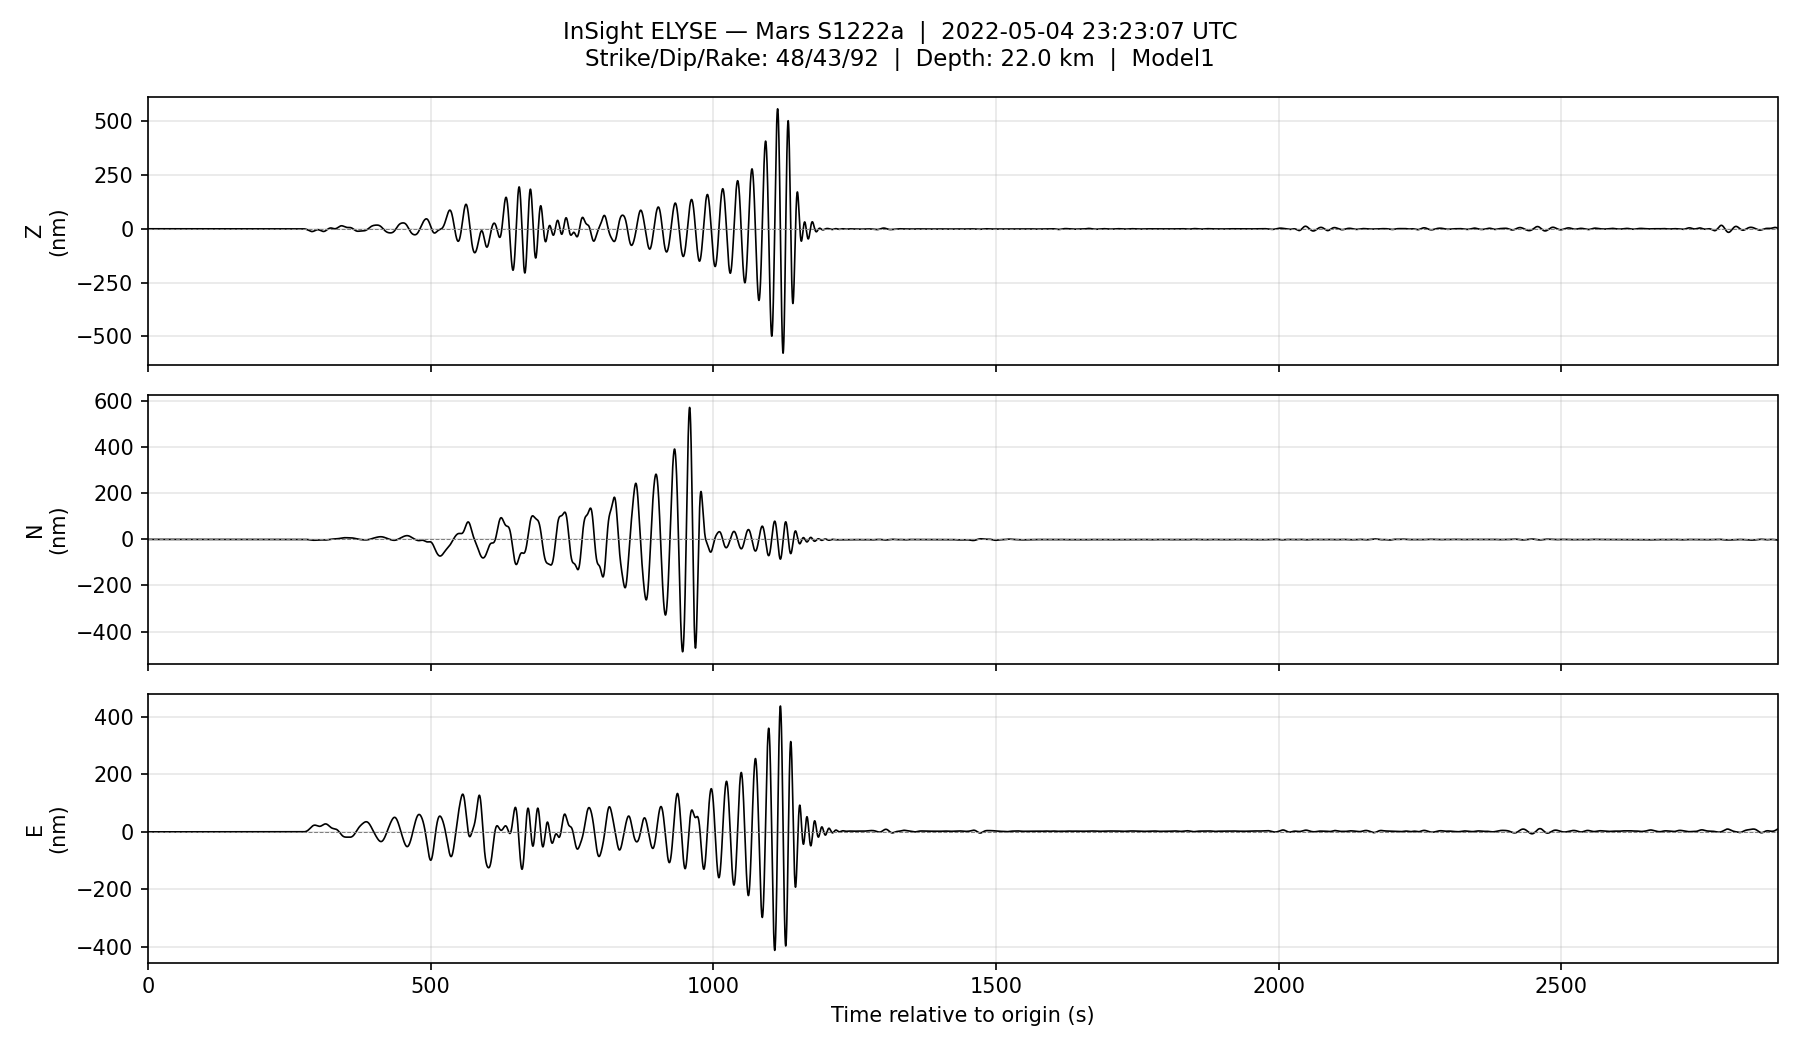
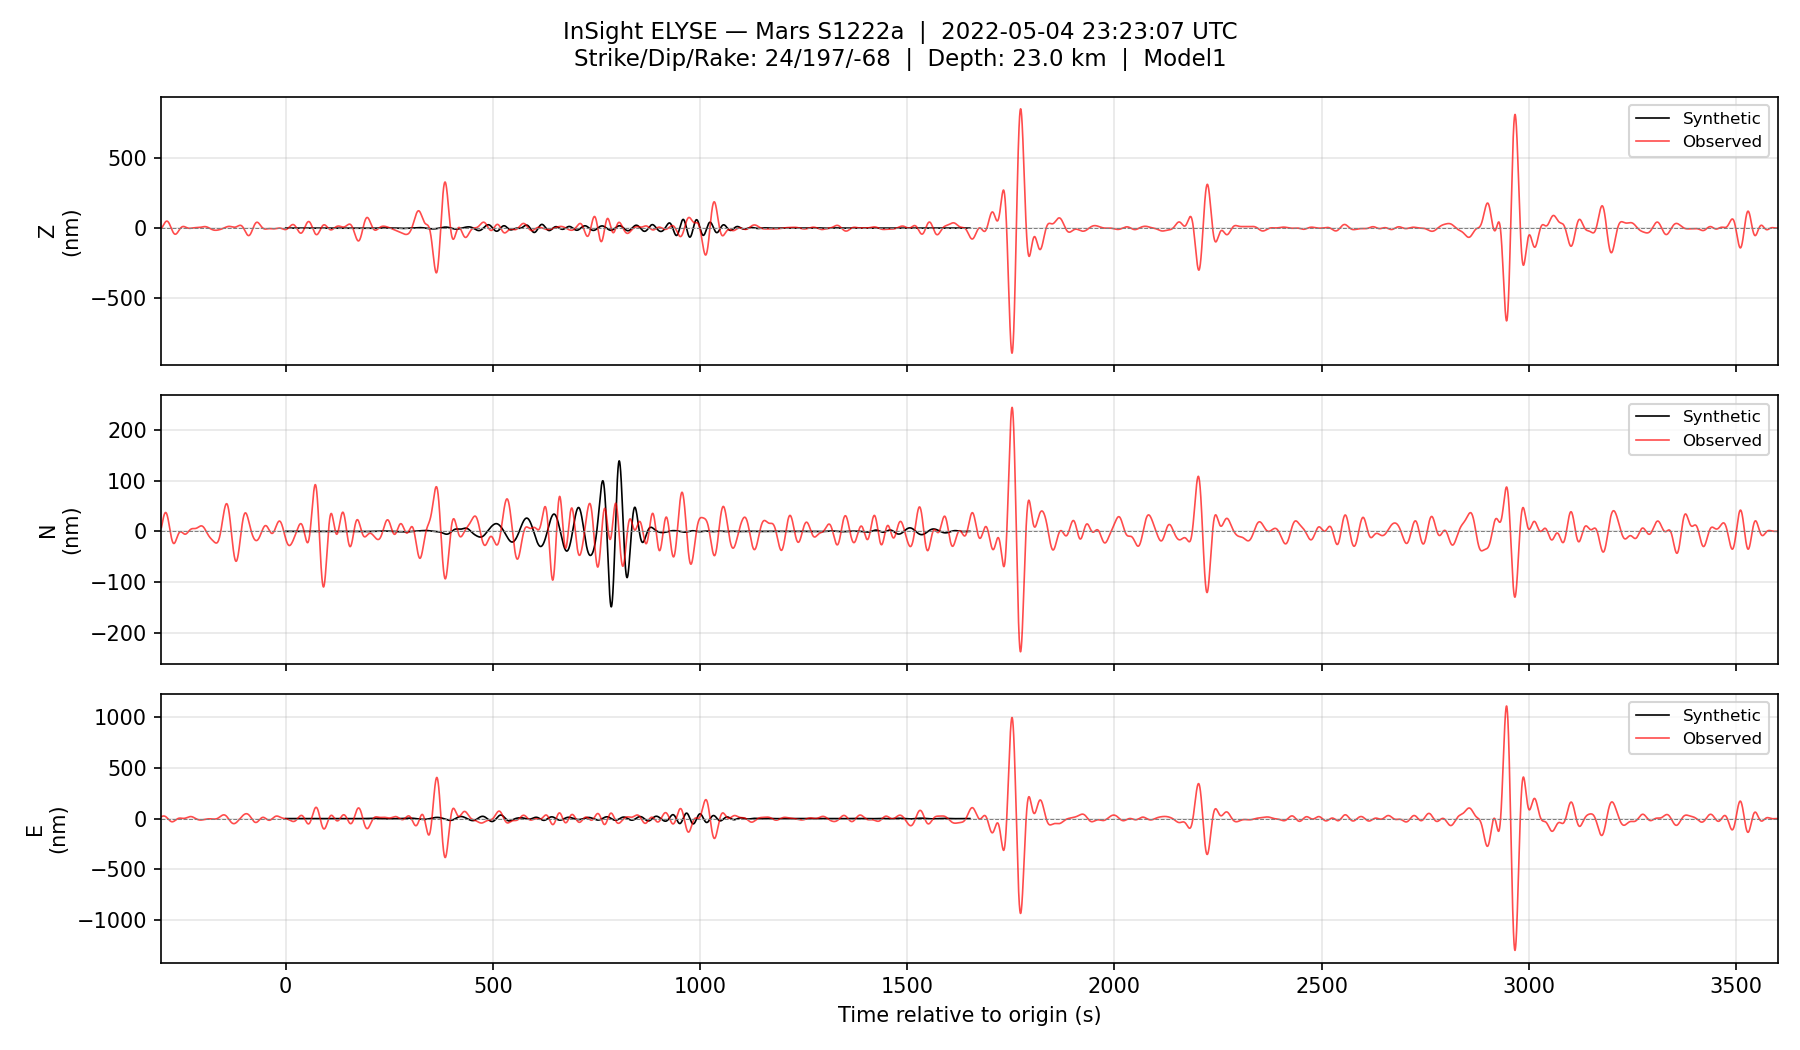
improved instaseis script

diff --git a/instaseis/main.py b/instaseis/main.py
@@ -7,11 +7,11 @@ from obspy.signal.filter import bandpass
 from real_data import load_real_zne
 
 _here = os.path.dirname(os.path.abspath(__file__))
-db = instaseis.open_db(os.path.join(_here, '..', 'axisem', 'SOLVER', 'mars'))
+db = instaseis.open_db(os.path.join(_here, '..', 'axisem', 'SOLVER', 'model_155_30'))
 print(db)
 
-FREQMIN = 0.1
-FREQMAX = 1.0
+FREQMIN = 0.01   # period 100s
+FREQMAX = 0.0333 # period 30s (mesh's dominant period)
 CORNERS = 4
 CHANNELS = ('BHU', 'BHV', 'BHW')
 
@@ -19,12 +19,16 @@ origin = UTCDateTime('2022-05-04 23:23:07')
 
 stla = 4.502
 stlo = 135.62
-evlo = 171.9
-evla = -3.0
-evdp = 22.0
+evlo = 165.86
+evla = 3.39
+evdp = 23.0
 evdp_m = evdp*1000.
+dip = 197
+strike = 24
+rake = -68
+M0 = 1e15
 
-source = instaseis.Source.from_strike_dip_rake(latitude=evla,longitude=evlo,depth_in_m=evdp_m,strike=48,dip=43,rake=92,M0=5e15)
+source = instaseis.Source.from_strike_dip_rake(latitude=evla,longitude=evlo,depth_in_m=evdp_m,strike=strike,dip=dip,rake=rake,M0=M0)
 receiver = instaseis.Receiver(latitude=stla,longitude=stlo,network='XB',station='ELYSE')
 
 st = db.get_seismograms(source=source,receiver=receiver,components='ZNE',kind='displacement',dt=0.05)
@@ -51,32 +55,34 @@ components = ['Z', 'N', 'E']
 
 def _make_figure(title_suffix, show_synthetic, show_real):
     fig, axes = plt.subplots(3, 1, figsize=(12, 7), sharex=True)
-    ref_times = None
+    xlim = None
 
     for ax, comp in zip(axes, components):
         tr = st.select(component=comp)[0]
         times = tr.times(reftime=origin)
-        if ref_times is None:
-            ref_times = times
 
         if show_synthetic:
             syn_label = f'Synthetic (shift={SYNTHETIC_TIME_SHIFT:+.1f}s)' if SYNTHETIC_TIME_SHIFT else 'Synthetic'
             ax.plot(times + SYNTHETIC_TIME_SHIFT, tr.data * 1e9, color='black', linewidth=0.8, label=syn_label)
+            syn_span = (times[0] + SYNTHETIC_TIME_SHIFT, times[-1] + SYNTHETIC_TIME_SHIFT)
+            xlim = syn_span if xlim is None else (min(xlim[0], syn_span[0]), max(xlim[1], syn_span[1]))
 
         if show_real and real is not None:
             t_real, d_real = real[comp]
             ax.plot(t_real, d_real * 1e9, color='red', linewidth=0.8, alpha=0.7, label='Observed')
+            real_span = (t_real[0], t_real[-1])
+            xlim = real_span if xlim is None else (min(xlim[0], real_span[0]), max(xlim[1], real_span[1]))
 
         ax.set_ylabel(f'{comp}\n(nm)', fontsize=10)
         ax.axhline(0, color='gray', linewidth=0.5, linestyle='--')
         ax.grid(True, alpha=0.3)
-        ax.set_xlim(ref_times[0], ref_times[-1])
+        ax.set_xlim(*xlim)
         ax.legend(loc='upper right', fontsize=8)
 
     axes[-1].set_xlabel('Time relative to origin (s)', fontsize=10)
     fig.suptitle(
         f'InSight ELYSE — Mars S1222a  |  {origin.strftime("%Y-%m-%d %H:%M:%S")} UTC\n'
-        f'Strike/Dip/Rake: 48/43/92  |  Depth: {evdp} km  |  Model1'
+        f'Strike/Dip/Rake: {strike}/{dip}/{rake}  |  Depth: {evdp} km  |  Model1'
         + (f'  |  {title_suffix}' if title_suffix else ''),
         fontsize=11
     )
